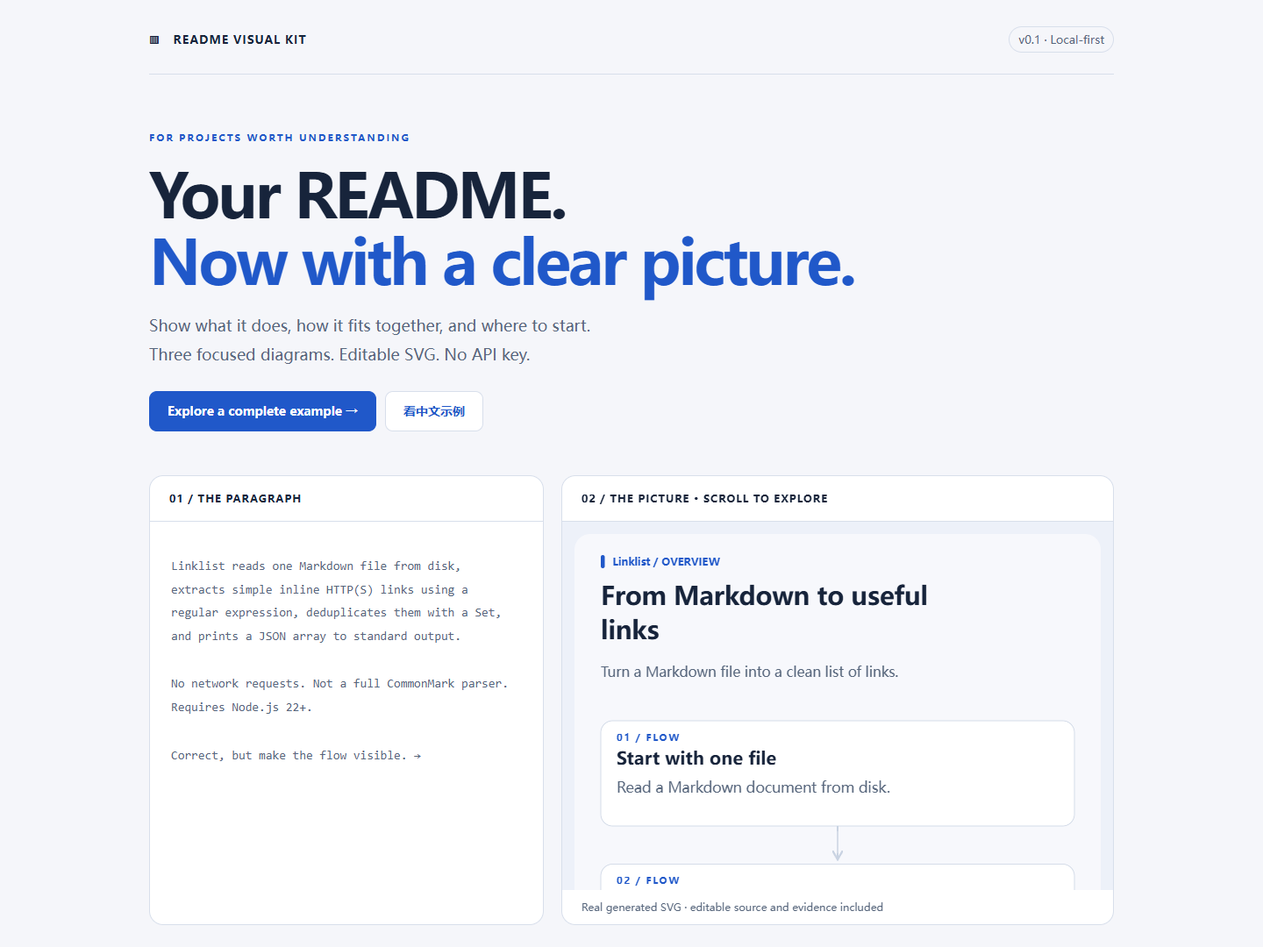
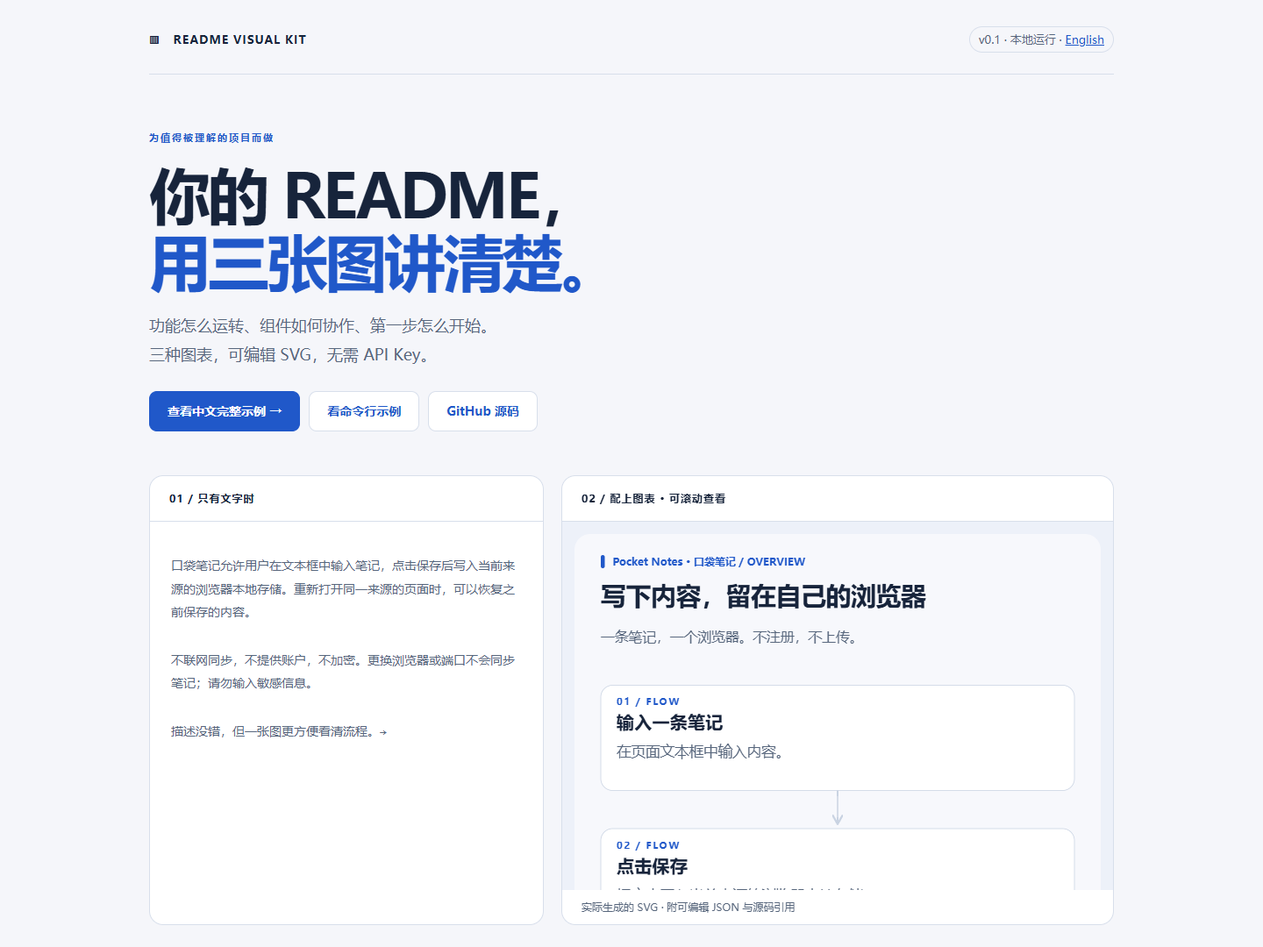
Make README and gallery Chinese-first with English alternatives

diff --git a/docs/gallery/index.html b/docs/gallery/index.html
@@ -1,5 +1,5 @@
 <!doctype html>
-<html lang="en"><head><meta charset="utf-8"><meta name="viewport" content="width=device-width,initial-scale=1"><title>README Visual Kit — Less explaining. More understanding.</title>
+<html lang="zh-CN"><head><meta charset="utf-8"><meta name="viewport" content="width=device-width,initial-scale=1"><title>README Visual Kit — 三张图，让别人看懂你的项目</title>
 <style>
 :root{color-scheme:light;--ink:#17243b;--muted:#58677d;--accent:#2058c9;--line:#d8dfeb;--paper:#f5f6fa}*{box-sizing:border-box}body{margin:0;background:var(--paper);color:var(--ink);font-family:system-ui,-apple-system,'Segoe UI','Microsoft YaHei',sans-serif}.shell{max-width:1180px;margin:auto;padding:30px 40px 60px}header{display:flex;align-items:center;justify-content:space-between;gap:15px;padding-bottom:24px;border-bottom:1px solid var(--line);font-size:13px}.brand{font-weight:800;letter-spacing:1px}.badge{border:1px solid var(--line);padding:6px 10px;border-radius:30px;color:var(--muted)}.hero{padding:60px 0 42px}.eyebrow{color:var(--accent);font-size:11px;letter-spacing:2px;font-weight:750;text-transform:uppercase}h1{font-size:clamp(40px,6vw,70px);line-height:1.08;letter-spacing:-3px;max-width:880px;margin:20px 0}h1 span{color:var(--accent)}.hero p{font-size:18px;color:var(--muted);line-height:1.8;max-width:700px}.actions{display:flex;gap:10px;flex-wrap:wrap;margin-top:25px}a{color:var(--accent)}.button{display:inline-block;padding:13px 20px;text-decoration:none;border:1px solid var(--line);border-radius:9px;background:white;font-size:14px;font-weight:650}.primary{background:var(--accent);color:white;border-color:var(--accent)}.compare{display:grid;grid-template-columns:1fr 1.4fr;gap:20px;margin:8px 0 48px}.box{border:1px solid var(--line);border-radius:16px;background:#fff;overflow:hidden}.box-label{padding:18px 22px;font-size:12px;border-bottom:1px solid var(--line);font-weight:700;letter-spacing:1px}.before{padding:24px;color:var(--muted);font:14px/1.9 ui-monospace,Consolas,monospace;overflow-wrap:anywhere}.before p{margin-bottom:28px}.after{height:420px;overflow:auto;padding:14px;background:#edf1f9}.after img{width:100%;display:block}.box-footer{padding:12px 22px;font-size:12px;color:var(--muted)}h2{font-size:28px;letter-spacing:-.5px}.section-note{color:var(--muted);line-height:1.7}.cards{display:grid;grid-template-columns:repeat(3,1fr);gap:20px}.card{background:#fff;border:1px solid var(--line);border-radius:14px;overflow:hidden;transition:transform .15s}.card:hover{transform:translateY(-3px)}.card a{text-decoration:none;display:block;color:inherit}.thumbnail{height:230px;overflow:hidden;background:#eaf0ff;border-bottom:1px solid var(--line);padding:12px}.thumbnail img{display:block;width:100%}.card-info{padding:22px}.card h3{font-size:21px;margin:10px 0}.card p{color:var(--muted);font-size:14px;line-height:1.7;min-height:48px}.open{color:var(--accent);font-size:13px;font-weight:650}.run{margin-top:40px;border-radius:16px;background:var(--ink);color:white;padding:30px}.run h2{font-size:23px;margin-top:0}.run p{color:#c1cbdb;line-height:1.7}.run pre{overflow:auto;white-space:pre-wrap;overflow-wrap:anywhere;background:#24324a;padding:18px;border-radius:8px;font-size:13px;line-height:1.7}.facts{display:grid;grid-template-columns:repeat(3,1fr);gap:24px;margin:38px 0}.facts h3{font-size:15px}.facts p{font-size:13px;line-height:1.8;color:var(--muted)}footer{font-size:12px;line-height:1.8;color:var(--muted);padding-top:22px;border-top:1px solid var(--line)}a:focus-visible{outline:3px solid var(--accent);outline-offset:4px}@media(max-width:700px){.shell{padding:20px}.hero{padding:36px 0 24px}h1{letter-spacing:-1.8px}.compare,.cards,.facts{grid-template-columns:1fr}.compare{gap:12px}.after{height:380px}.thumbnail{height:270px}.run{padding:22px}.badge{font-size:11px}.brand{font-size:11px}}
-</style></head><body><div class="shell"><header><div class="brand">▥ &nbsp; README VISUAL KIT</div><span class="badge">v0.1 · Local-first</span></header><section class="hero"><span class="eyebrow">For projects worth understanding</span><h1>Your README.<br><span>Now with a clear picture.</span></h1><p>Show what it does, how it fits together, and where to start.<br>Three focused diagrams. Editable SVG. No API key.</p><div class="actions"><a class="button primary" href="cli/index.html">Explore a complete example →</a><a class="button" href="web/index.html">看中文示例</a></div></section><section class="compare" aria-label="Text and diagram comparison"><div class="box"><div class="box-label">01 / THE PARAGRAPH</div><div class="before"><p>Linklist reads one Markdown file from disk, extracts simple inline HTTP(S) links using a regular expression, deduplicates them with a Set, and prints a JSON array to standard output.</p><p>No network requests. Not a full CommonMark parser. Requires Node.js 22+.</p><span>Correct, but make the flow visible. →</span></div></div><div class="box"><div class="box-label">02 / THE PICTURE · SCROLL TO EXPLORE</div><div class="after"><img src="cli/overview.light.svg" alt="Linklist overview: read file, extract unique links, print JSON"></div><div class="box-footer">Real generated SVG · editable source and evidence included</div></div></section><section><span class="eyebrow">Small examples. Complete outputs.</span><h2>One workflow, three kinds of project.</h2><p class="section-note">Runnable fixtures built for this kit — not external customer endorsements.<br>Each includes all three diagrams, light/dark themes and source references.</p><div class="cards"><article class="card"><a href="cli/index.html"><div class="thumbnail"><img src="cli/overview.light.svg" alt="Linklist generated diagram"></div><div class="card-info"><span class="eyebrow">Node.js · CLI</span><h3>Linklist</h3><p>A Markdown file becomes a clean, deduplicated list of links.</p><span class="open">Open the full preview →</span></div></a></article><article class="card"><a href="web/index.html"><div class="thumbnail"><img src="web/overview.light.svg" alt="口袋笔记中文功能图"></div><div class="card-info"><span class="eyebrow">Browser · 中文</span><h3>Pocket Notes</h3><p>输入、保存、恢复。用一张图说明浏览器本地存储。</p><span class="open">查看中文图表 →</span></div></a></article><article class="card"><a href="library/index.html"><div class="thumbnail"><img src="library/architecture.light.svg" alt="Text Utils generated architecture diagram"></div><div class="card-info"><span class="eyebrow">Python · Library</span><h3>Text Utils</h3><p>Two small functions and their standard-library relationships.</p><span class="open">Open the full preview →</span></div></a></article></div></section><section class="run"><h2>One command. Ten portable files.</h2><p>From the downloaded repository, with Node.js 22+. No npm install.</p><pre>node scripts/cli.mjs render examples/cli/visuals.json --root examples/cli --out demo</pre><p>Open demo/index.html. Keep the SVGs, edit the JSON, copy the README snippet.</p></section><div class="facts"><div><h3>Grounded, not guessed</h3><p>Nodes cite real files and line ranges. The validator checks that references exist; humans still check meaning.</p></div><div><h3>Your agent does the thinking</h3><p>The included skill guides your existing agent. The renderer draws locally and never calls an AI API.</p></div><div><h3>Keep control of your source</h3><p>Review source excerpts before publishing. You can share only the SVGs and keep evidence private.</p></div></div><footer>README Visual Kit · MIT · Source-referenced diagrams, not exhaustive architecture documentation.<br>Works offline after download. No analytics, external assets, sign-in or star gates.</footer></div></body></html>
+</style></head><body><div class="shell"><header><div class="brand">▥ &nbsp; README VISUAL KIT</div><span class="badge">v0.1 · 本地运行 · <a href="index.en.html" lang="en">English</a></span></header><section class="hero"><span class="eyebrow">为值得被理解的项目而做</span><h1>你的 README，<br><span>用三张图讲清楚。</span></h1><p>功能怎么运转、组件如何协作、第一步怎么开始。<br>三种图表，可编辑 SVG，无需 API Key。</p><div class="actions"><a class="button primary" href="web/index.html">查看中文完整示例 →</a><a class="button" href="cli/index.html">看命令行示例</a><a class="button" href="https://github.com/tianfuzhibuyuci/readme-visual-kit">GitHub 源码</a></div></section><section class="compare" aria-label="文字说明与图表对比"><div class="box"><div class="box-label">01 / 只有文字时</div><div class="before"><p>口袋笔记允许用户在文本框中输入笔记，点击保存后写入当前来源的浏览器本地存储。重新打开同一来源的页面时，可以恢复之前保存的内容。</p><p>不联网同步，不提供账户，不加密。更换浏览器或端口不会同步笔记；请勿输入敏感信息。</p><span>描述没错，但一张图更方便看清流程。→</span></div></div><div class="box"><div class="box-label">02 / 配上图表 · 可滚动查看</div><div class="after"><img src="web/overview.light.svg" alt="口袋笔记功能流程：输入笔记、点击保存、重新打开后恢复"></div><div class="box-footer">实际生成的 SVG · 附可编辑 JSON 与源码引用</div></div></section><section><span class="eyebrow">示例虽小，产出完整</span><h2>一套流程，三类项目。</h2><p class="section-note">三个示例均为本项目自建的可运行演示，不代表外部用户采用。<br>每个示例都包含三种图表、明暗主题与源码引用。</p><div class="cards"><article class="card"><a href="cli/index.html"><div class="thumbnail"><img src="cli/overview.light.svg" alt="Linklist 生成图示例"></div><div class="card-info"><span class="eyebrow">Node.js · 命令行工具</span><h3>Linklist</h3><p>读取 Markdown 文件，生成清晰、去重后的链接列表。</p><span class="open">打开完整预览 →</span></div></a></article><article class="card"><a href="web/index.html"><div class="thumbnail"><img src="web/overview.light.svg" alt="口袋笔记中文功能图"></div><div class="card-info"><span class="eyebrow">浏览器应用 · 中文</span><h3>口袋笔记</h3><p>输入、保存、恢复。用一张图说明浏览器本地存储。</p><span class="open">查看中文图表 →</span></div></a></article><article class="card"><a href="library/index.html"><div class="thumbnail"><img src="library/architecture.light.svg" alt="Text Utils 生成的简化架构图"></div><div class="card-info"><span class="eyebrow">Python · 工具库</span><h3>Text Utils</h3><p>用两个小函数，展示模块导入与标准库依赖关系。</p><span class="open">打开完整预览 →</span></div></a></article></div></section><section class="run"><h2>一条命令，生成十个文件。</h2><p>下载仓库后进入目录，准备 Node.js 22+，无需 npm install。</p><pre>node scripts/cli.mjs render examples/cli/visuals.json --root examples/cli --out demo</pre><p>打开 demo/index.html，即可查看 SVG、编辑 JSON 输入，或复制 README 嵌入片段。</p></section><div class="facts"><div><h3>有源码依据，不凭空编造</h3><p>节点引用真实文件与行号。校验器检查引用是否存在；描述与连线是否正确，仍需人工审核。</p></div><div><h3>你的智能助手负责整理</h3><p>附带的 Skill 指导你已有的智能助手整理输入。本地渲染器负责绘图，不调用 AI 接口。</p></div><div><h3>源码是否公开，由你决定</h3><p>发布前请检查源码摘录。可以只公开 SVG，把含源码片段的依据文件留在本地。</p></div></div><footer>README Visual Kit · MIT 开源 · 带源码引用的说明图，不是完整架构分析工具。<br>下载后可离线使用，无统计追踪、外部资源、登录或强制 Star 要求。</footer></div></body></html>

diff --git a/docs/gallery/index.en.html b/docs/gallery/index.en.html
@@ -1,0 +1,5 @@
+<!doctype html>
+<html lang="en"><head><meta charset="utf-8"><meta name="viewport" content="width=device-width,initial-scale=1"><title>README Visual Kit — Less explaining. More understanding.</title>
+<style>
+:root{color-scheme:light;--ink:#17243b;--muted:#58677d;--accent:#2058c9;--line:#d8dfeb;--paper:#f5f6fa}*{box-sizing:border-box}body{margin:0;background:var(--paper);color:var(--ink);font-family:system-ui,-apple-system,'Segoe UI','Microsoft YaHei',sans-serif}.shell{max-width:1180px;margin:auto;padding:30px 40px 60px}header{display:flex;align-items:center;justify-content:space-between;gap:15px;padding-bottom:24px;border-bottom:1px solid var(--line);font-size:13px}.brand{font-weight:800;letter-spacing:1px}.badge{border:1px solid var(--line);padding:6px 10px;border-radius:30px;color:var(--muted)}.hero{padding:60px 0 42px}.eyebrow{color:var(--accent);font-size:11px;letter-spacing:2px;font-weight:750;text-transform:uppercase}h1{font-size:clamp(40px,6vw,70px);line-height:1.08;letter-spacing:-3px;max-width:880px;margin:20px 0}h1 span{color:var(--accent)}.hero p{font-size:18px;color:var(--muted);line-height:1.8;max-width:700px}.actions{display:flex;gap:10px;flex-wrap:wrap;margin-top:25px}a{color:var(--accent)}.button{display:inline-block;padding:13px 20px;text-decoration:none;border:1px solid var(--line);border-radius:9px;background:white;font-size:14px;font-weight:650}.primary{background:var(--accent);color:white;border-color:var(--accent)}.compare{display:grid;grid-template-columns:1fr 1.4fr;gap:20px;margin:8px 0 48px}.box{border:1px solid var(--line);border-radius:16px;background:#fff;overflow:hidden}.box-label{padding:18px 22px;font-size:12px;border-bottom:1px solid var(--line);font-weight:700;letter-spacing:1px}.before{padding:24px;color:var(--muted);font:14px/1.9 ui-monospace,Consolas,monospace;overflow-wrap:anywhere}.before p{margin-bottom:28px}.after{height:420px;overflow:auto;padding:14px;background:#edf1f9}.after img{width:100%;display:block}.box-footer{padding:12px 22px;font-size:12px;color:var(--muted)}h2{font-size:28px;letter-spacing:-.5px}.section-note{color:var(--muted);line-height:1.7}.cards{display:grid;grid-template-columns:repeat(3,1fr);gap:20px}.card{background:#fff;border:1px solid var(--line);border-radius:14px;overflow:hidden;transition:transform .15s}.card:hover{transform:translateY(-3px)}.card a{text-decoration:none;display:block;color:inherit}.thumbnail{height:230px;overflow:hidden;background:#eaf0ff;border-bottom:1px solid var(--line);padding:12px}.thumbnail img{display:block;width:100%}.card-info{padding:22px}.card h3{font-size:21px;margin:10px 0}.card p{color:var(--muted);font-size:14px;line-height:1.7;min-height:48px}.open{color:var(--accent);font-size:13px;font-weight:650}.run{margin-top:40px;border-radius:16px;background:var(--ink);color:white;padding:30px}.run h2{font-size:23px;margin-top:0}.run p{color:#c1cbdb;line-height:1.7}.run pre{overflow:auto;white-space:pre-wrap;overflow-wrap:anywhere;background:#24324a;padding:18px;border-radius:8px;font-size:13px;line-height:1.7}.facts{display:grid;grid-template-columns:repeat(3,1fr);gap:24px;margin:38px 0}.facts h3{font-size:15px}.facts p{font-size:13px;line-height:1.8;color:var(--muted)}footer{font-size:12px;line-height:1.8;color:var(--muted);padding-top:22px;border-top:1px solid var(--line)}a:focus-visible{outline:3px solid var(--accent);outline-offset:4px}@media(max-width:700px){.shell{padding:20px}.hero{padding:36px 0 24px}h1{letter-spacing:-1.8px}.compare,.cards,.facts{grid-template-columns:1fr}.compare{gap:12px}.after{height:380px}.thumbnail{height:270px}.run{padding:22px}.badge{font-size:11px}.brand{font-size:11px}}
+</style></head><body><div class="shell"><header><div class="brand">▥ &nbsp; README VISUAL KIT</div><span class="badge">v0.1 · Local-first · <a href="index.html" lang="zh-CN">简体中文</a></span></header><section class="hero"><span class="eyebrow">For projects worth understanding</span><h1>Your README.<br><span>Now with a clear picture.</span></h1><p>Show what it does, how it fits together, and where to start.<br>Three focused diagrams. Editable SVG. No API key.</p><div class="actions"><a class="button primary" href="cli/index.html">Explore a complete example →</a><a class="button" href="web/index.html">看中文示例</a><a class="button" href="https://github.com/tianfuzhibuyuci/readme-visual-kit">View on GitHub</a></div></section><section class="compare" aria-label="Text and diagram comparison"><div class="box"><div class="box-label">01 / THE PARAGRAPH</div><div class="before"><p>Linklist reads one Markdown file from disk, extracts simple inline HTTP(S) links using a regular expression, deduplicates them with a Set, and prints a JSON array to standard output.</p><p>No network requests. Not a full CommonMark parser. Requires Node.js 22+.</p><span>Correct, but make the flow visible. →</span></div></div><div class="box"><div class="box-label">02 / THE PICTURE · SCROLL TO EXPLORE</div><div class="after"><img src="cli/overview.light.svg" alt="Linklist overview: read file, extract unique links, print JSON"></div><div class="box-footer">Real generated SVG · editable source and evidence included</div></div></section><section><span class="eyebrow">Small examples. Complete outputs.</span><h2>One workflow, three kinds of project.</h2><p class="section-note">Runnable fixtures built for this kit — not external customer endorsements.<br>Each includes all three diagrams, light/dark themes and source references.</p><div class="cards"><article class="card"><a href="cli/index.html"><div class="thumbnail"><img src="cli/overview.light.svg" alt="Linklist generated diagram"></div><div class="card-info"><span class="eyebrow">Node.js · CLI</span><h3>Linklist</h3><p>A Markdown file becomes a clean, deduplicated list of links.</p><span class="open">Open the full preview →</span></div></a></article><article class="card"><a href="web/index.html"><div class="thumbnail"><img src="web/overview.light.svg" alt="口袋笔记中文功能图"></div><div class="card-info"><span class="eyebrow">Browser · 中文</span><h3>Pocket Notes</h3><p>输入、保存、恢复。用一张图说明浏览器本地存储。</p><span class="open">查看中文图表 →</span></div></a></article><article class="card"><a href="library/index.html"><div class="thumbnail"><img src="library/architecture.light.svg" alt="Text Utils generated architecture diagram"></div><div class="card-info"><span class="eyebrow">Python · Library</span><h3>Text Utils</h3><p>Two small functions and their standard-library relationships.</p><span class="open">Open the full preview →</span></div></a></article></div></section><section class="run"><h2>One command. Ten portable files.</h2><p>From the downloaded repository, with Node.js 22+. No npm install.</p><pre>node scripts/cli.mjs render examples/cli/visuals.json --root examples/cli --out demo</pre><p>Open demo/index.html. Keep the SVGs, edit the JSON, copy the README snippet.</p></section><div class="facts"><div><h3>Grounded, not guessed</h3><p>Nodes cite real files and line ranges. The validator checks that references exist; humans still check meaning.</p></div><div><h3>Your agent does the thinking</h3><p>The included skill guides your existing agent. The renderer draws locally and never calls an AI API.</p></div><div><h3>Keep control of your source</h3><p>Review source excerpts before publishing. You can share only the SVGs and keep evidence private.</p></div></div><footer>README Visual Kit · MIT · Source-referenced diagrams, not exhaustive architecture documentation.<br>Works offline after download. No analytics, external assets, sign-in or star gates.</footer></div></body></html>

diff --git a/docs/index.html b/docs/index.html
@@ -1,1 +1,1 @@
-<!doctype html><html lang="en"><head><meta charset="utf-8"><meta name="viewport" content="width=device-width,initial-scale=1"><meta http-equiv="refresh" content="0;url=gallery/index.html"><title>README Visual Kit</title></head><body><a href="gallery/index.html">Open README Visual Kit gallery</a></body></html>
+<!doctype html><html lang="zh-CN"><head><meta charset="utf-8"><meta name="viewport" content="width=device-width,initial-scale=1"><meta http-equiv="refresh" content="0;url=gallery/index.html"><title>README Visual Kit</title></head><body><a href="gallery/index.html">打开 README Visual Kit 示例画廊</a></body></html>

diff --git a/README.md b/README.md
@@ -1,107 +1,84 @@
 # README Visual Kit
 
-**A README people can understand before they install.**
+**让别人不用安装，就先看懂你的项目。**
 
-Turn source-referenced project notes into three matching diagrams: **how it works, how it fits together, and how to start**. Local SVG renderer + a portable agent skill. No API key. No runtime dependencies.
+把带源码依据的项目说明，变成三张统一风格的图：**功能流程、简化架构、快速上手**。本地 SVG 渲染器 + 可携带的 Agent Skill，无需 API Key、无第三方运行依赖。
 
-[中文说明](README.zh-CN.md) · [Live demo](https://tianfuzhibuyuci.github.io/readme-visual-kit/) · [Manifest reference](references/manifest.md)
+[English](README.en.md) · [在线体验](https://tianfuzhibuyuci.github.io/readme-visual-kit/) · [输入格式](references/manifest.md)
 
-![README Visual Kit preview](docs/preview.png)
+![README Visual Kit 中文演示预览](docs/preview.png)
 
 <details>
-<summary>See a complete generated SVG / 查看完整生成图</summary>
+<summary>查看完整生成图</summary>
 
-![Linklist overview example](docs/gallery/cli/overview.light.svg)
+![中文功能图示例](docs/gallery/web/overview.light.svg)
 
 </details>
 
-> Status: v0.1.0 — a working local MVP, not a hosted service. The examples below are small fixtures created for this repository, not external users or endorsements.
+> v0.1.0 是可运行的本地 MVP，不是在线 AI 服务。三个示例都是为本项目编写的演示程序，不代表第三方用户或真实商业采用。
 
-## Try it in 30 seconds
+## 30 秒试用
 
-Download or clone this repository, open a terminal in its folder, and use **Node.js 22+**:
+下载或克隆本仓库，进入目录，准备 **Node.js 22+**：
 
 ```sh
 node scripts/cli.mjs render examples/cli/visuals.json --root examples/cli --out demo
 ```
 
-Open `demo/index.html` in your browser. No `npm install`, account, token or build step. If `demo` already exists, choose another output name; the tool will not overwrite it.
+然后双击 `demo/index.html`。不需要 `npm install`、登录或密钥。若 `demo` 已存在，请换一个输出目录名；工具不会覆盖旧目录。
 
-**Prefer browsing first?** [Try the live gallery](https://tianfuzhibuyuci.github.io/readme-visual-kit/) to explore all three included examples, in both themes. You can also open `docs/gallery/index.html` locally; the renderer and generated previews work offline.
+也可以先[打开在线画廊](https://tianfuzhibuyuci.github.io/readme-visual-kit/)查看三个完整示例，无需安装。下载后双击 `docs/gallery/index.html` 也能查看；渲染器和生成的预览均支持离线使用。
 
-## What you get
+## 产出什么
 
-| File | Purpose |
-|---|---|
-| `overview.light.svg` + `.dark.svg` | Input → transformation → result |
-| `architecture.light.svg` + `.dark.svg` | A simplified directed component diagram |
-| `quickstart.light.svg` + `.dark.svg` | The shortest path to a first result |
-| `visuals.json` | Editable diagram source |
-| `README-snippet.md` | Copyable theme-aware `<picture>` embeds |
-| `index.html` | Offline preview, tabs, theme switch, downloads and copy button |
-| `evidence.json` | Source file/line references and copied excerpts |
+- **功能流程图**：输入 → 处理 → 输出。
+- **简化架构图**：关键组件及有向关系，不画不存在的数据库和服务。
+- **快速上手图**：从准备环境到第一次跑通。
+- 每张都有明暗两版 SVG，共六张；另含可编辑 JSON、README 嵌入片段、离线预览、来源报告。
+- 预览支持切换图表/主题、下载和复制片段。手机端保持可读字号，横向滑动看图。
 
-On small screens the preview scrolls diagrams horizontally rather than shrinking the text to illegibility. The SVGs themselves scale to fit README containers; use shorter labels for narrow embeds.
+## 和“AI 随便画张图”有什么不同
 
-## Not another “AI draws everything” app
+**范围小、依据明确、可以修改。** 每个节点必须引用项目内真实文件和行号。渲染器检查文件和行范围是否存在，但**不证明描述或连线在语义上正确**；仍需要人或 Agent 审查。
 
-- **Three useful diagrams, not a blank canvas.** A focused README workflow.
-- **Source references, not invented features.** Every node links to a real file and line range. The checker does **not** verify the meaning of claims or edges.
-- **Light and dark together.** Deterministic SVG output with no external font or asset requests.
-- **Your agent, your model.** The skill helps an existing agent prepare the JSON. The CLI does not read an arbitrary repository and magically infer architecture, and it never calls a model API. Existing model usage may still cost money.
-- **Editable and portable.** JSON, SVG and HTML remain yours. No service to keep alive.
+它不提供托管模型，不自动扫描整个仓库推断架构。你现有的 Agent 整理 JSON，本地脚本负责校验与绘图；使用已有模型仍可能产生模型费用。
 
-## Use it on your project
+## 给自己的项目生成
 
-1. Ask your coding agent to follow `SKILL.md` in this repository, or prepare JSON yourself using [the format](references/manifest.md).
-2. Point it at the README and relevant source files. Keep every diagram to 2–6 nodes and verify source references.
-3. Run validation and render. Below, `.` is your current project and `visuals.json` is your prepared manifest; replace the script path with the renderer's actual location:
+1. 让编码助手阅读本仓库根目录 `SKILL.md`，再读取目标项目 README 和相关源码；也可按照 [输入格式](references/manifest.md) 自己写 JSON。
+2. 用 2–6 个节点讲清每张图，不确定的内容写 `uncertainty`，不要编造。
+3. 在目标项目目录里运行（脚本路径替换为你本机的实际路径）：
 
    ```sh
    node /path/to/readme-visual-kit/scripts/cli.mjs check visuals.json --root .
    node /path/to/readme-visual-kit/scripts/cli.mjs render visuals.json --root . --out readme-visuals
    ```
 
-4. Review the preview, particularly architecture arrows and quickstart commands. Open `README-snippet.md`, adjust image paths to `./readme-visuals/`, then copy into your README.
-5. **Check privacy before committing:** source excerpts are included in the preview and evidence report. You may publish only the six SVGs if you do not want to share excerpts.
+4. 打开生成的 `index.html`，检查三张图、两套主题、架构箭头和命令。
+5. 复制 `README-snippet.md` 时，把图片路径前缀改为 `./readme-visuals/`。
 
-Suggested agent prompt:
+可直接给 Agent 的提示：
 
-> Follow the SKILL.md in readme-visual-kit. Use only this repository's README and relevant source files to make overview, architecture and quickstart diagrams. Show uncertainty explicitly, validate evidence, and render into a new readme-visuals folder. Do not run project commands or publish anything.
+> 按照 readme-visual-kit 中的 SKILL.md，为当前项目生成三张 README 图。仅依据 README 和相关源码，每个节点引用文件行号，不确定项明确标注。先校验，再输出到新的 readme-visuals 目录。不要执行项目命令，也不要发布到 GitHub。
 
-The root folder is a self-contained skill: keep `SKILL.md`, `scripts/`, `references/` and the example it references together. An agent can read it directly; optional installation/discovery depends on your client. No global configuration is changed by this project.
+本仓库根目录就是一个完整 Skill。整体保留 `SKILL.md`、`scripts/`、`references/` 和引用到的示例，交给支持读取 Skill 的客户端；不同客户端的安装目录和自动发现方式各异。本工具不会修改你的全局配置。
 
-## Three runnable fixtures
+## 发布前必须注意
 
-| Example | Type | What it demonstrates |
-|---|---|---|
-| [Linklist](examples/cli/) | Node CLI | Markdown → deduplicated links → JSON |
-| [Pocket Notes](examples/web/) | Browser app, Chinese | Input → save → local browser storage |
-| [Text Utils](examples/library/) | Python library | Tiny functions, imports and dependency relationships |
+`evidence.json` 和预览 HTML 包含引用的**源码片段**，可能含私有信息。发布前逐项审查；如果只想公开图，只上传六张 SVG 即可。不要把密钥写进输入 JSON。
 
-The gallery contains pre-rendered outputs for each. Fixture limitations are documented in their own READMEs.
+来源校验不是事实认证，也不会固定到 Git 提交；源码变化后应重新检查。输出目录必须不存在且其父目录已存在。磁盘错误可能留下部分新文件，处理原因后换一个新目录再生成。
 
-## Development
+## 验收与限制
 
-```sh
-npm test
-```
+- 三类可运行自建示例：Node CLI、中文浏览器应用、Python 工具库。
+- `npm test` 运行内置测试，无需安装依赖；测试覆盖校验、转义、路径安全、可编辑源保留和 CLI。
+- Windows／Ubuntu × Node.js 22／24 四组云端测试已通过；详细测试与视觉检查见 [QA 记录](docs/QA.md)。
+- 架构只支持最多六节点的有向无环图；循环需先抽象，复杂图应换更专业的工具。
+- 手机预览可横向滑动；README 内 SVG 会按容器缩放，应尽量使用短标签。
+- 字体来自本机，中文会换行，但复杂文字和 emoji 仍需人工检查。
+- 不是拖拽画布，不提供 SVG 修改反向同步 JSON。
 
-Uses Node's built-in test runner; no third-party runtime or test packages. The CI definition exercises Node 22 and 24 on Windows and Ubuntu. Browser QA performed for this release is recorded in [docs/QA.md](docs/QA.md); a workflow file is not a claim of a successful remote CI run.
+欢迎提供可公开的真实项目示例、Bug 或带测试的改进。如果它帮你省下解释项目的时间，欢迎点一个 Star。不会要求先 Star 才能使用，也不承诺获得特定 Star 数。
 
-## Limits & safety
-
-- This is a **presentation aid**, not a full architecture analyzer. Architecture supports up to six nodes and a DAG; simplify cycles and dense relationships.
-- Validation checks schema, safe local paths and line bounds, not semantic truth. Source references can become stale.
-- Commands are rendered as text, never executed. The CLI makes no network requests.
-- Existing output directories are refused. A disk failure during writing can leave a partial new directory; choose a new directory after addressing the failure.
-- Fonts use the viewer's local system fonts. CJK is supported by wrapping, but font availability varies. Review long labels, complex scripts and emoji visually.
-- SVG edits do not round-trip into JSON. This is not a drag-and-drop editor.
-
-## Contribute
-
-A useful contribution starts with a failing test, a small fix and a before/after image when layout changes. Real examples with permission to share are welcome. Please remove secrets from evidence excerpts before attaching them to issues.
-
-If this saves you time explaining a project, a Star helps others discover it. No star gates, paid stars or fake adoption numbers.
-
-MIT licensed. See [LICENSE](LICENSE).
+MIT 开源许可，见 [LICENSE](LICENSE)。

diff --git a/README.en.md b/README.en.md
@@ -1,0 +1,107 @@
+# README Visual Kit
+
+**A README people can understand before they install.**
+
+Turn source-referenced project notes into three matching diagrams: **how it works, how it fits together, and how to start**. Local SVG renderer + a portable agent skill. No API key. No runtime dependencies.
+
+[简体中文](README.md) · [Live demo](https://tianfuzhibuyuci.github.io/readme-visual-kit/) · [Manifest reference](references/manifest.md)
+
+![README Visual Kit preview](docs/preview.png)
+
+<details>
+<summary>See a complete generated SVG / 查看完整生成图</summary>
+
+![Linklist overview example](docs/gallery/cli/overview.light.svg)
+
+</details>
+
+> Status: v0.1.0 — a working local MVP, not a hosted service. The examples below are small fixtures created for this repository, not external users or endorsements.
+
+## Try it in 30 seconds
+
+Download or clone this repository, open a terminal in its folder, and use **Node.js 22+**:
+
+```sh
+node scripts/cli.mjs render examples/cli/visuals.json --root examples/cli --out demo
+```
+
+Open `demo/index.html` in your browser. No `npm install`, account, token or build step. If `demo` already exists, choose another output name; the tool will not overwrite it.
+
+**Prefer browsing first?** [Try the live gallery](https://tianfuzhibuyuci.github.io/readme-visual-kit/) to explore all three included examples, in both themes. You can also open `docs/gallery/index.html` locally; the renderer and generated previews work offline.
+
+## What you get
+
+| File | Purpose |
+|---|---|
+| `overview.light.svg` + `.dark.svg` | Input → transformation → result |
+| `architecture.light.svg` + `.dark.svg` | A simplified directed component diagram |
+| `quickstart.light.svg` + `.dark.svg` | The shortest path to a first result |
+| `visuals.json` | Editable diagram source |
+| `README-snippet.md` | Copyable theme-aware `<picture>` embeds |
+| `index.html` | Offline preview, tabs, theme switch, downloads and copy button |
+| `evidence.json` | Source file/line references and copied excerpts |
+
+On small screens the preview scrolls diagrams horizontally rather than shrinking the text to illegibility. The SVGs themselves scale to fit README containers; use shorter labels for narrow embeds.
+
+## Not another “AI draws everything” app
+
+- **Three useful diagrams, not a blank canvas.** A focused README workflow.
+- **Source references, not invented features.** Every node links to a real file and line range. The checker does **not** verify the meaning of claims or edges.
+- **Light and dark together.** Deterministic SVG output with no external font or asset requests.
+- **Your agent, your model.** The skill helps an existing agent prepare the JSON. The CLI does not read an arbitrary repository and magically infer architecture, and it never calls a model API. Existing model usage may still cost money.
+- **Editable and portable.** JSON, SVG and HTML remain yours. No service to keep alive.
+
+## Use it on your project
+
+1. Ask your coding agent to follow `SKILL.md` in this repository, or prepare JSON yourself using [the format](references/manifest.md).
+2. Point it at the README and relevant source files. Keep every diagram to 2–6 nodes and verify source references.
+3. Run validation and render. Below, `.` is your current project and `visuals.json` is your prepared manifest; replace the script path with the renderer's actual location:
+
+   ```sh
+   node /path/to/readme-visual-kit/scripts/cli.mjs check visuals.json --root .
+   node /path/to/readme-visual-kit/scripts/cli.mjs render visuals.json --root . --out readme-visuals
+   ```
+
+4. Review the preview, particularly architecture arrows and quickstart commands. Open `README-snippet.md`, adjust image paths to `./readme-visuals/`, then copy into your README.
+5. **Check privacy before committing:** source excerpts are included in the preview and evidence report. You may publish only the six SVGs if you do not want to share excerpts.
+
+Suggested agent prompt:
+
+> Follow the SKILL.md in readme-visual-kit. Use only this repository's README and relevant source files to make overview, architecture and quickstart diagrams. Show uncertainty explicitly, validate evidence, and render into a new readme-visuals folder. Do not run project commands or publish anything.
+
+The root folder is a self-contained skill: keep `SKILL.md`, `scripts/`, `references/` and the example it references together. An agent can read it directly; optional installation/discovery depends on your client. No global configuration is changed by this project.
+
+## Three runnable fixtures
+
+| Example | Type | What it demonstrates |
+|---|---|---|
+| [Linklist](examples/cli/) | Node CLI | Markdown → deduplicated links → JSON |
+| [Pocket Notes](examples/web/) | Browser app, Chinese | Input → save → local browser storage |
+| [Text Utils](examples/library/) | Python library | Tiny functions, imports and dependency relationships |
+
+The gallery contains pre-rendered outputs for each. Fixture limitations are documented in their own READMEs.
+
+## Development
+
+```sh
+npm test
+```
+
+Uses Node's built-in test runner; no third-party runtime or test packages. The CI definition exercises Node 22 and 24 on Windows and Ubuntu. Successful remote CI and browser QA for this release are recorded in [docs/QA.md](docs/QA.md).
+
+## Limits & safety
+
+- This is a **presentation aid**, not a full architecture analyzer. Architecture supports up to six nodes and a DAG; simplify cycles and dense relationships.
+- Validation checks schema, safe local paths and line bounds, not semantic truth. Source references can become stale.
+- Commands are rendered as text, never executed. The CLI makes no network requests.
+- Existing output directories are refused. A disk failure during writing can leave a partial new directory; choose a new directory after addressing the failure.
+- Fonts use the viewer's local system fonts. CJK is supported by wrapping, but font availability varies. Review long labels, complex scripts and emoji visually.
+- SVG edits do not round-trip into JSON. This is not a drag-and-drop editor.
+
+## Contribute
+
+A useful contribution starts with a failing test, a small fix and a before/after image when layout changes. Real examples with permission to share are welcome. Please remove secrets from evidence excerpts before attaching them to issues.
+
+If this saves you time explaining a project, a Star helps others discover it. No star gates, paid stars or fake adoption numbers.
+
+MIT licensed. See [LICENSE](LICENSE).

diff --git a/README.zh-CN.md b/README.zh-CN.md
@@ -4,12 +4,12 @@
 
 把带源码依据的项目说明，变成三张统一风格的图：**功能流程、简化架构、快速上手**。本地 SVG 渲染器 + 可携带的 Agent Skill，无需 API Key、无第三方运行依赖。
 
-[English](README.md) · [在线体验](https://tianfuzhibuyuci.github.io/readme-visual-kit/) · [输入格式](references/manifest.md)
+[English](README.en.md) · [在线体验](https://tianfuzhibuyuci.github.io/readme-visual-kit/) · [输入格式](references/manifest.md)
 
-![README Visual Kit preview](docs/preview.png)
+![README Visual Kit 中文演示预览](docs/preview.png)
 
 <details>
-<summary>See a complete generated SVG / 查看完整生成图</summary>
+<summary>查看完整生成图</summary>
 
 ![中文功能图示例](docs/gallery/web/overview.light.svg)
 
@@ -73,7 +73,7 @@ node scripts/cli.mjs render examples/cli/visuals.json --root examples/cli --out 
 
 - 三类可运行自建示例：Node CLI、中文浏览器应用、Python 工具库。
 - `npm test` 运行内置测试，无需安装依赖；测试覆盖校验、转义、路径安全、可编辑源保留和 CLI。
-- 本次视觉检查见 [QA 记录](docs/QA.md)。CI 配置存在不代表已经在 GitHub 上跑过。
+- Windows／Ubuntu × Node.js 22／24 四组云端测试已通过；详细测试与视觉检查见 [QA 记录](docs/QA.md)。
 - 架构只支持最多六节点的有向无环图；循环需先抽象，复杂图应换更专业的工具。
 - 手机预览可横向滑动；README 内 SVG 会按容器缩放，应尽量使用短标签。
 - 字体来自本机，中文会换行，但复杂文字和 emoji 仍需人工检查。

diff --git a/docs/LAUNCH.zh-CN.md b/docs/LAUNCH.zh-CN.md
@@ -7,7 +7,7 @@
 ## 仓库建议
 
 - 名称：`readme-visual-kit`（仓库已创建）
-- 描述：Three source-referenced README diagrams. Local SVG renderer + agent skill. No API key.
+- 描述：把带源码依据的项目说明变成三张 README 图：功能流程、简化架构、快速上手。本地 SVG 渲染器 + Agent Skill，无需 API Key。
 - Topics：`readme`、`svg`、`developer-tools`、`agent-skills`、`documentation`、`diagrams`
 - 许可证：MIT，完整文本已包含。
 
@@ -27,7 +27,11 @@
 
 目前带了 CLI、中文网页、Python 库三个自建示例。最想知道的是：你项目的 README 哪一段最难让新人看懂？欢迎拿真实项目试试，告诉我哪里画得不对。
 
-发布时补上**实际**仓库与演示地址，不编造用户数、效果提升或采用案例。
+仓库：https://github.com/tianfuzhibuyuci/readme-visual-kit
+
+在线演示：https://tianfuzhibuyuci.github.io/readme-visual-kit/
+
+不编造用户数、效果提升或采用案例。
 
 ## 争取真实反馈
 

diff --git a/docs/QA.md b/docs/QA.md
@@ -41,3 +41,10 @@ Date: 2026-10-27. Local and publication verification are recorded separately bel
 - Font metrics vary. Bounding-box checks are not a guarantee for all fonts, scripts, emoji or every possible graph.
 
 Screenshots: [desktop gallery](preview.png), [Chinese mobile preview](preview-mobile.png).
+
+
+## Chinese-first presentation update — 2026-10-28 (Asia/Shanghai)
+
+- Default README and gallery introduction are Chinese; English remains available in `README.en.md` and `docs/gallery/index.en.html`.
+- Updated the desktop gallery screenshot and checked Chinese/English navigation, local README links, loaded gallery images and 390 px mobile layout with no whole-page overflow.
+- This is a presentation-only update. Example manifests, renderer output and its 40 tests are unchanged.
